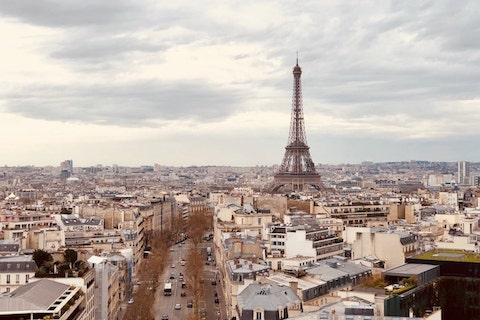
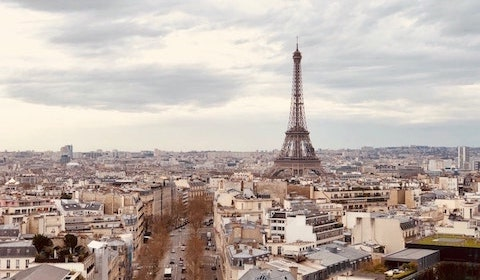
refactor image location

diff --git a/src/components/training/dataUtils.js b/src/components/training/dataUtils.js
@@ -10,23 +10,23 @@ import {
   GRAPHQL_WORKSHOP,
 } from '../../config/data'
 
-const LISBON_LOCATION =
-  'https://firebasestorage.googleapis.com/v0/b/reactjsacademy-react.appspot.com/o/location_images%2Flocation_lisbon-perede.jpg?alt=media'
+// const LISBON_LOCATION =
+//   'https://firebasestorage.googleapis.com/v0/b/reactjsacademy-react.appspot.com/o/location_images%2Flocation_lisbon-perede.jpg?alt=media'
 
-const LONDON_LOCATION =
-  'https://firebasestorage.googleapis.com/v0/b/reactjsacademy-react.appspot.com/o/location_images%2Flocation_london.jpg?alt=media'
+// const LONDON_LOCATION =
+//   'https://firebasestorage.googleapis.com/v0/b/reactjsacademy-react.appspot.com/o/location_images%2Flocation_london.jpg?alt=media'
 
-const BARCELONA_LOCATION =
-  'https://firebasestorage.googleapis.com/v0/b/reactjsacademy-react.appspot.com/o/location_images%2Flocation_barcelona.jpg?alt=media'
+// const BARCELONA_LOCATION =
+//   'https://firebasestorage.googleapis.com/v0/b/reactjsacademy-react.appspot.com/o/location_images%2Flocation_barcelona.jpg?alt=media'
 
-const AMSTERDAM_LOCATION =
-  'https://firebasestorage.googleapis.com/v0/b/reactjsacademy-react.appspot.com/o/location_images%2Flocation_amsterdam.jpg?alt=media'
+// const AMSTERDAM_LOCATION =
+//   'https://firebasestorage.googleapis.com/v0/b/reactjsacademy-react.appspot.com/o/location_images%2Flocation_amsterdam.jpg?alt=media'
 
-const BERLIN_LOCATION =
-  'https://firebasestorage.googleapis.com/v0/b/reactgraphqlacademy.appspot.com/o/images%2Flocation_images%2Flocation_berlin.jpg?alt=media'
+// const BERLIN_LOCATION =
+//   'https://firebasestorage.googleapis.com/v0/b/reactgraphqlacademy.appspot.com/o/images%2Flocation_images%2Flocation_berlin.jpg?alt=media'
 
-const DEFAULT_INFOBOX =
-  'https://firebasestorage.googleapis.com/v0/b/reactgraphqlacademy.appspot.com/o/images%2Fdefault_infobox.jpg?alt=media'
+// const DEFAULT_INFOBOX =
+//   'https://firebasestorage.googleapis.com/v0/b/reactgraphqlacademy.appspot.com/o/images%2Fdefault_infobox.jpg?alt=media'
 
 export const createTrainingPath = ({ type, city = '', index, slug }) => {
   const i = index > 1 ? index : ''
@@ -52,28 +52,28 @@ export const createTrainingPath = ({ type, city = '', index, slug }) => {
   }
 }
 
-export const selectLocationImage = ({ city = '' }) => {
-  switch (city) {
-    case 'London':
-      return LONDON_LOCATION
-    case 'Amsterdam':
-      return AMSTERDAM_LOCATION
-    case 'Lisbon':
-      return LISBON_LOCATION
-    case 'Barcelona':
-      return BARCELONA_LOCATION
-    case 'Berlin':
-      return BERLIN_LOCATION
-    default:
-      return DEFAULT_INFOBOX
-  }
-}
+// export const selectLocationImage = ({ city = '' }) => {
+//   switch (city) {
+//     case 'London':
+//       return LONDON_LOCATION
+//     case 'Amsterdam':
+//       return AMSTERDAM_LOCATION
+//     case 'Lisbon':
+//       return LISBON_LOCATION
+//     case 'Barcelona':
+//       return BARCELONA_LOCATION
+//     case 'Berlin':
+//       return BERLIN_LOCATION
+//     default:
+//       return DEFAULT_INFOBOX
+//   }
+// }
 
 export function formatMeetup({ node }) {
   return {
     ...node,
     type: MEETUP,
     toPath: `/community/meetups/${node.id}`,
-    image: selectLocationImage({ city: node.city }),
+    // image: selectLocationImage({ city: node.city }),
   }
 }

diff --git a/gatsby-node.js b/gatsby-node.js
@@ -30,6 +30,12 @@ function getFirstPathFromSlug(slug) {
   return slugArray[1]
 }
 
+function getLocationImage(result, city) {
+  return result.data.locationImages.nodes.find(
+    image => image.name.toLowerCase() === city.toLowerCase()
+  )
+}
+
 exports.createPages = async ({ graphql, actions }) => {
   const { createPage } = actions
   const getPosts = async ({ tagsIn = [], tagsNin = '', limit = 3 }) => {
@@ -130,6 +136,23 @@ exports.createPages = async ({ graphql, actions }) => {
           }
         }
 
+        locationImages: allFile(
+          filter: { relativePath: { regex: "/pages/locations/.*.jpg/" } }
+        ) {
+          nodes {
+            name
+            childImageSharp {
+              fluid(maxWidth: 600) {
+                base64
+                aspectRatio
+                src
+                srcSet
+                sizes
+              }
+            }
+          }
+        }
+
         upmentoring {
           eventsConnection(
             first: 1000
@@ -205,15 +228,17 @@ exports.createPages = async ({ graphql, actions }) => {
       )
 
       await Promise.all(
-        result.data.upmentoring.eventsConnection.edges.map(({ node }) =>
-          createPage({
+        result.data.upmentoring.eventsConnection.edges.map(({ node }) => {
+          const locationImage = getLocationImage(result, node.city)
+          return createPage({
             path: `/community/meetups/${node.id}`,
             component: path.resolve(`./src/templates/meetup.js`),
             context: {
               meetup: node,
+              locationImage: locationImage && locationImage.childImageSharp,
             },
           })
-        )
+        })
       )
 
       await Promise.all(
@@ -260,6 +285,7 @@ exports.createPages = async ({ graphql, actions }) => {
             const city = getLastPathFromSlug(slug)
             const titleCaseCity = titleCase(city)
             const instancesToCreate = [1, 2, 3, 4, 5, 6, 7, 8, 9]
+            const locationImage = getLocationImage(result, city)
             const pathConfig = path.resolve(`./src/pages/${slug}../config.json`)
             const {
               instanceTemplate,
@@ -304,6 +330,7 @@ exports.createPages = async ({ graphql, actions }) => {
                       instanceTemplate}.js`
                   ),
                   context: {
+                    locationImage: locationImage.childImageSharp,
                     videoCoachId,
                     videoOneTime,
                     videoOneId: videoOneId ? videoOneId : '6hmKu1-vW-8',

diff --git a/src/pages/locations/index.js b/src/pages/locations/index.js
@@ -9,7 +9,8 @@ import { Breadcrumb } from '../../components/navigation'
 import { TopSection } from '../../components/layout/Section'
 import { H3 } from '../../components/text'
 import { Link } from '../../components/navigation'
-import { Segment, Image } from '../../components/elements'
+import { Image } from '../../components/elements'
+import Card from '../../components/elements/Card'
 import Box from '../../components/layout/Box'
 
 const Blog = ({ data, path }) => {
@@ -36,13 +37,17 @@ const Blog = ({ data, path }) => {
             <Row>
               {locations.map(({ node: location }) => (
                 <Col lg={4} key={location.fields.slug}>
-                  <Segment pt={0} pb={0} mb={5}>
+                  {/* <Segment pt={0} pb={0} mb={5}>  */}
+                  <Card small variant="secondary" mb={5}>
                     <Link
                       to={`${location.fields.slug}`}
                       className="location-summary"
                     >
                       <Image
-                        src={location.frontmatter.listImageSrc.publicURL}
+                        fluid={
+                          location.frontmatter.listImageSrc.childImageSharp
+                            .fluid
+                        }
                         alt={location.frontmatter.city}
                         mb={0}
                       />
@@ -55,7 +60,8 @@ const Blog = ({ data, path }) => {
                         <H3>{location.frontmatter.city}</H3>
                       </Link>
                     </Box>
-                  </Segment>
+                    {/* </Segment> */}
+                  </Card>
                 </Col>
               ))}
             </Row>
@@ -81,7 +87,11 @@ export const query = graphql`
           frontmatter {
             city
             listImageSrc {
-              publicURL
+              childImageSharp {
+                fluid(maxWidth: 600) {
+                  ...GatsbyImageSharpFluid
+                }
+              }
             }
           }
         }

diff --git a/src/components/layout/Header.js b/src/components/layout/Header.js
@@ -279,6 +279,7 @@ const getBackgroundImageSrc = (data, fileName) => {
 const Header = ({
   training = {},
   showInfoBox = false,
+  infoBoxFluidImage,
   featuredSection,
   type = '',
   titleLines = [],
@@ -408,11 +409,12 @@ const Header = ({
                 {showInfoBox && (
                   <Col md={3} mdOffset={1}>
                     <InfoBox type={type} p={1}>
-                      {training.image && (
+                      {infoBoxFluidImage && (
                         <Image
-                          src={training.image}
+                          fluid={infoBoxFluidImage.fluid}
                           width="100%"
-                          alt="React GraphQL Academy coach Alex assists a student, being next to them, inspecting their code and helping them on their learning path."
+                          mb={1}
+                          alt={subtitle}
                         />
                       )}
                       <Ul variant="unstyled" mb={1} pl={1} pr={1}>

diff --git a/src/components/elements/Image.js b/src/components/elements/Image.js
@@ -4,18 +4,25 @@ import GatsbyImage from 'gatsby-image'
 import withLazyLoad from './withLazyLoad'
 import Box from '../layout/Box'
 
-const Image = withLazyLoad()(styled(Box)`
-  ${({ circle }) => (circle ? `border-radius: 50%;` : null)};
-  ${({ objectFit }) => (objectFit ? `object-fit: ${objectFit}` : '')}
-`)
-
-Image.defaultProps = {
+const defaultProps = {
   mt: 0,
   box: 'img',
 }
 
+const Image = withLazyLoad()(styled(Box)`
+  ${({ circle }) => (circle ? `border-radius: 50%;` : null)};
+  ${({ objectFit }) => (objectFit ? `object-fit: ${objectFit}` : '')}
+`)
+Image.defaultProps = defaultProps
+
+const StyledGatsbyImage = styled(Box)``
+StyledGatsbyImage.defaultProps = {
+  ...defaultProps,
+  box: GatsbyImage,
+}
+
 export default props => {
-  const Component = !(props.fluid || props.fixed) ? Image : GatsbyImage
+  const Component = !(props.fluid || props.fixed) ? Image : StyledGatsbyImage
 
   return <Component {...props} />
 }

diff --git a/src/templates/meetup.js b/src/templates/meetup.js
@@ -14,10 +14,9 @@ import { PaymentSection } from 'src/components/payment'
 import { Link, Breadcrumb } from 'src/components/navigation'
 import { MEETUP } from 'src/config/data'
 
-const Meetup = ({ pageContext }) => (
+const Meetup = ({ pageContext: { meetup = {}, locationImage } }) => (
   <Layout>
     {({ trainings }) => {
-      const meetup = pageContext.meetup || {}
       meetup.type = MEETUP
       const { city, title, description } = meetup
       const excerpt =
@@ -69,6 +68,7 @@ const Meetup = ({ pageContext }) => (
               { text: 'Buy tickets', to: '#pricing' },
             ]}
             training={meetup}
+            infoBoxFluidImage={locationImage}
             showInfoBox={true}
             type={MEETUP}
             className="meetup-details-clicks"

diff --git a/src/components/layout.js b/src/components/layout.js
@@ -7,7 +7,7 @@ import selectUpcomingTrainings from './training/selectUpcomingTrainings'
 import {
   createTrainingPath,
   formatMeetup,
-  selectLocationImage,
+  // selectLocationImage,
 } from './training/dataUtils'
 
 import './reset.css'
@@ -138,7 +138,7 @@ const Layout = ({ children, loadAutopilot = true }) => {
         id,
         slug,
       }),
-      image: selectLocationImage({ city }),
+      // image: selectLocationImage({ city }),
     }
   }
 

diff --git a/src/templates/instance/baseTemplate.js b/src/templates/instance/baseTemplate.js
@@ -33,6 +33,7 @@ const InstancePage = ({
   curriculumProps = {},
   perfectStudentLink,
   pageContext: {
+    locationImage,
     posts,
     subtitle,
     financeAvailable,
@@ -150,6 +151,7 @@ const InstancePage = ({
             type={type}
             training={training}
             showInfoBox={true}
+            infoBoxFluidImage={locationImage}
             bgColor="transparent"
             removeBgImage
           />

diff --git a/src/components/layout/Ul.js b/src/components/layout/Ul.js
@@ -9,6 +9,7 @@ const StyledUl = styled(Box)`
     `
     > li {
       list-style-type: none;
+      margin-bottom: 7px;
     }
   `}
   ${({ variant, variants = [] }) =>
